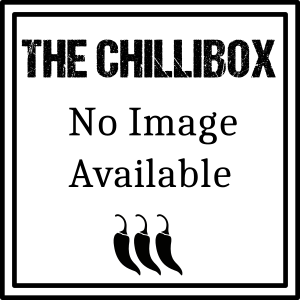
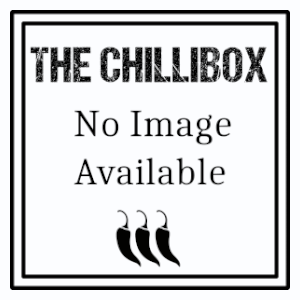
Add placeholder for images in case image missing
- Replace placeholder image in static/images
- Edit templates where product images used to add link to placeholder in case of no image
- Edit layout of newest products on index

diff --git a/products/templates/products/latest_products.html b/products/templates/products/latest_products.html
@@ -7,6 +7,7 @@ Shop
 
 {% block content %}
 <section class="container-md">
+    <!-- Latest sauces -->
     <div class="row py-4">
         <div class="d-flex align-items-center">
             <h2 class="headings">Latest Sauces</h2>
@@ -15,15 +16,21 @@ Shop
         {% for sauce in saucecat %}
         <div class="col-sm-6 col-md-6 col-lg-4 col-xl-3 mb-5 text-center">
             <div class="chilli-card mx-auto text-center">
-                <h3 class="headings headings-sm">{{ sauce.name }}</h3>
+                <h3 class="headings headings-sm">{{ sauce }}</h3>
                 {% if sauce.thumbnail %}
-                <img class="pics" src="{{ sauce.thumbnail.url }}">
+                <img class="pics" src="{{ sauce.thumbnail.url }}" alt="{{ sauce }}">
                 {% else %}
-                <p>No thumbnail</p>
+                <img width="300" height="300" class="pics" src="{% static 'images/placeholder.png' %}" alt="No image available for {{ sauce }}">
                 {% endif %}
                 <p class="excerpt">{{ sauce.excerpt }}</p>
-                <p>{% if sauce.check_stock %}In Stock{% else %}Out of Stock{% endif %}</p>
-                <a class="chilli-link" href="{% url 'products:product' sauce.slug %}">View {{ sauce.name }}</a>
+                <p>
+                    {% if sauce.check_stock %}
+                    In Stock
+                    {% else %}
+                    Out of Stock
+                    {% endif %}
+                </p>
+                <a class="chilli-link" href="{% url 'products:product' sauce.slug %}">View {{ sauce }}</a>
             </div>
         </div>
         {% empty %}
@@ -31,6 +38,7 @@ Shop
         {% endfor %}
     </div>
     <hr class="mt-5">
+    <!-- Latest sauceboxes -->
     <div class="row py-4">
         <div class="d-flex align-items-center">
             <h2 class="headings">Latest Sauceboxes</h2>
@@ -39,15 +47,21 @@ Shop
         {% for saucebox in sauceboxcat %}
         <div class="col-md-3 text-center">
             <div class="chilli-card mx-auto text-center">
-                <h3 class="headings headings-sm">{{ saucebox.name }}</h3>
+                <h3 class="headings headings-sm">{{ saucebox }}</h3>
                 {% if saucebox.thumbnail %}
                 <img class="pics" src="{{ saucebox.thumbnail.url }}">
                 {% else %}
-                <p>No thumbnail</p>
+                <img width="300" height="300" class="pics" src="{% static 'images/placeholder.png' %}" alt="No image available for {{ saucebox }}">
                 {% endif %}
                 <p class="excerpt">{{ saucebox.excerpt }}</p>
-                <p>{% if saucebox.check_stock %}In Stock{% else %}Out of Stock{% endif %}</p>
-                <a class="chilli-link" href="{% url 'products:product' saucebox.slug %}">View {{ saucebox.name }}</a>
+                <p>
+                    {% if saucebox.check_stock %}
+                    In Stock
+                    {% else %}
+                    Out of Stock
+                    {% endif %}
+                </p>
+                <a class="chilli-link" href="{% url 'products:product' saucebox.slug %}">View {{ saucebox }}</a>
             </div>
         </div>
         {% empty %}
@@ -55,6 +69,7 @@ Shop
         {% endfor %}
     </div>
     <hr class="mt-5">
+    <!-- Latest seeds -->
     <div class="row py-4">
         <div class="d-flex align-items-center">
             <h2 class="headings">Latest Seeds</h2>
@@ -63,15 +78,21 @@ Shop
         {% for seed in seedcat %}
         <div class="col-md-3 text-center">
             <div class="chilli-card mx-auto text-center">
-                <h3 class="headings headings-sm">{{ seed.name }}</h3>
+                <h3 class="headings headings-sm">{{ seed }}</h3>
                 {% if seed.thumbnail %}
                 <img class="pics" src="{{ seed.thumbnail.url }}">
                 {% else %}
-                <p>No thumbnail</p>
+                <img width="300" height="300" class="pics" src="{% static 'images/placeholder.png' %}" alt="No image available for {{ seed }}">
                 {% endif %}
                 <p class="excerpt">{{ seed.excerpt }}</p>
-                <p>{% if seed.check_stock %}In Stock{% else %}Out of Stock{% endif %}</p>
-                <a class="chilli-link" href="{% url 'products:product' seed.slug %}">View {{ seed.name }}</a>
+                <p>
+                    {% if seed.check_stock %}
+                    In Stock
+                    {% else %}
+                    Out of Stock
+                    {% endif %}
+                </p>
+                <a class="chilli-link" href="{% url 'products:product' seed.slug %}">View {{ seed }}</a>
             </div> 
         </div>
         {% empty %}
@@ -79,6 +100,7 @@ Shop
         {% endfor %}
     </div> 
     <hr class="mt-5">
+    <!-- Latest seedboxes -->
     <div class="row py-4">
         <div class="d-flex align-items-center">
             <h2 class="headings">Latest Seedboxes</h2>
@@ -87,15 +109,21 @@ Shop
         {% for seedbox in seedboxcat %}
         <div class="col-md-3 text-center">
             <div class="chilli-card mx-auto text-center">
-                <h3 class="headings headings-sm">{{ seedbox.name }}</h3>
+                <h3 class="headings headings-sm">{{ seedbox }}</h3>
                 {% if seedbox.thumbnail %}
                 <img class="pics" src="{{ seedbox.thumbnail.url }}">
                 {% else %}
-                <img width="160" height="160" class="pics" src="{% static 'images/placeholder.png' %}">
+                <img width="300" height="300" class="pics" src="{% static 'images/placeholder.png' %}" alt="No image available for {{ seedbox }}">
                 {% endif %}
                 <p class="excerpt">{{ seedbox.excerpt }}</p>
-                <p>{% if seedbox.check_stock %}In Stock{% else %}Out of Stock{% endif %}</p>
-                <a class="chilli-link" href="{% url 'products:product' seedbox.slug %}">View {{ seedbox.name }}</a>
+                <p>
+                    {% if seedbox.check_stock %}
+                    In Stock
+                    {% else %}
+                    Out of Stock
+                    {% endif %}
+                </p>
+                <a class="chilli-link" href="{% url 'products:product' seedbox.slug %}">View {{ seedbox }}</a>
             </div>
         </div>
         {% empty %}

diff --git a/products/templates/products/search_results.html b/products/templates/products/search_results.html
@@ -9,13 +9,6 @@ Search Results
 
 <section class="container-md">
     <div class="col-12">
-        <div class="d-flex justify-content-between">
-            <a class="chilli-link bigger" href="{% url 'products:latest' %}"><i class="fa-solid fa-angles-left"></i> View
-                latest products</a>
-            {% if user.is_superuser %}
-            <a class="chilli-link" href="{% url 'management:dashboard' %}">Go to Product Dashboard</a>
-            {% endif %}
-        </div>
         <div class="row">
             <h1 class="headings headings-sm">
                 {% if product_list|length > 0 %}
@@ -30,14 +23,14 @@ Search Results
                 <div class="col-sm-6 col-md-6 col-lg-4 col-xl-3 text-center">
                     <div class="h-100 border-0 chilli-card text-center mx-auto">
                         <div>
-                            <h2 class="headings headings-sm">{{ product.name }}</h2>
+                            <h2 class="headings headings-sm">{{ product }}</h2>
                         </div>
                         
                         <div class="my-3">
                             {% if product.thumbnail %}
-                                <img class="pics" src="{{ product.thumbnail.url }}">
+                                <img class="pics" src="{{ product.thumbnail.url }}" alt="{{ product }}">
                             {% else %}
-                                <img width="160" height="160" class="pics" src="{% static 'images/placeholder.png' %}">
+                            <img width="300" height="300" class="pics" src="{% static 'images/placeholder.png' %}" alt="No image available for {{ product }}">
                             {% endif %}
                         </div>
                         
@@ -54,8 +47,7 @@ Search Results
                                     {% else %}
                                         <p>Out of stock.</p>
                                     {% endif %}
-                                    <a class="chilli-link" href="{% url 'products:product' product.slug %}">View
-                                        {{ product.name }}</a>
+                                    <a class="chilli-link" href="{% url 'products:product' product.slug %}">View {{ product }}</a>
                                 </div>
                             </div>
                         </div>
@@ -63,8 +55,7 @@ Search Results
                     {% if user.is_superuser %}
                     <div class="my-3">
                         <a class="chilli-btn" href="{% url 'management:edit_product' product.pk %}">Edit Product</a>
-                        <a class="chilli-btn chilli-dngr" href="{% url 'management:delete_product' product.pk %}">Delete
-                            Product</a>
+                        <a class="chilli-btn chilli-dngr" href="{% url 'management:delete_product' product.pk %}">Delete Product</a>
                     </div>
                     {% endif %}
                 </div>

diff --git a/products/templates/products/product_detail.html b/products/templates/products/product_detail.html
@@ -3,36 +3,24 @@
 {% load crispy_forms_tags %}
 
 {% block title %}
-{{ product.name }}
+{{ product }}
 {% endblock %}
 
 {% block content %}
 <section class="container-fluid">
-    <div class="mt-4">
-        <!-- Link to return to products (and product dashboard for admin)-->
-        <a class="chilli-link big" href="{% url 'products:latest' %}">&laquo; To Latest
-            Products</a><br>
-        <a class="chilli-link big" href="{% url 'products:category' product.category.slug %}">&laquo; To {{ product.category }}</a>
-        <!-- Link for staff to management dashboard-->
-        {% if user.is_staff %}
-        <a class="chilli-link float-end" href="{% url 'management:dashboard' %}">Go To Dashboard &raquo;</a>
-        {% endif %}
-    </div>
     <div class="row m-4">
         <!-- Product image and description -->
         <div class="col-lg-6 text-center">
             <div>
-                <h1 class="headings">{{ product.name }}</h1>
+                <h1 class="headings">{{ product }}</h1>
             </div>
-            
             <div>
                 {% if product.image %}
-                    <img class="pics pics-lg" src="{{ product.image.url }}">
+                    <img class="pics pics-lg" src="{{ product.image.url }}" alt="{{ product }}">
                 {% else %}
-                    <img class="pics pics-lg" src="{% static 'images/placeholder.png' %}">
+                    <img width="300" height="300" class="pics pics-lg" src="{% static 'images/placeholder.png' %}" alt="No image available for {{ product }}">
                 {% endif %}
             </div>
-            
             <p class="m-5 text-start">{{ product.description }}</p>
             {% if user.is_staff %}
                 <!-- Edit and Delete for admin -->
@@ -43,7 +31,7 @@
         <div class="col-lg-6 d-flex flex-column">
             <!-- Table for product details -->
             <div class="order-2 order-lg-1">
-                <h2 class="headings headings-sm">{{ product.name }} Details:</h2>
+                <h2 class="headings headings-sm">{{ product }} Details:</h2>
                 <table class="table table-borderless">
                     <tr>
                         <th>Category: </th>

diff --git a/home/templates/home/index.html b/home/templates/home/index.html
@@ -48,8 +48,8 @@ Home
     <!-- This row has header and blurb-->
     <div class="row">
         <h1 class="headings">Welcome to The Chillibox!</h1>
-        <p>At The Chillibox love all things <strong>spicy</strong>!</p>
-        <p>We offer a selection of seeds of different heat levels to grow your own chilli pepper plants. And a variety of hot sauces made in-house from our own plants grown here in Ireland.</p>
+        <p>At The Chillibox we love all things <strong>spicy</strong>!</p>
+        <p>We offer a selection of seeds of different heat levels to grow your own <strong>chilli pepper plants</strong>. And a variety of <strong>hot sauces</strong> made in-house from our own plants grown here in Ireland.</p>
     </div>
     <hr>
     <!-- This row is more specific -->
@@ -83,20 +83,19 @@ Home
         <!-- Latest products?? OR should this go at top? -->
         <!-- Should style with cards similar to product layout OR just links?? Prob best to include thumbnails tho-->
         {% for product in latest_products %}
-        <div class="col-3">
+        <div class="col-md-6 col-lg-3 mx-auto">
                 <div class="chilli-card text-center">
-                <h4>{{ product.name }}</h4>
+                <h4>{{ product }}</h4>
                 {% if product.thumbnail %}
-                    <img class="pics" src="{{ product.thumbnail.url }}">
+                    <img class="pics" src="{{ product.thumbnail.url }}" alt="{{ product }}">
                 {% else %}
-                    <img width="160" height="160" class="pics" src="{% static 'images/placeholder.png' %}">
+                    <img width="300" height="300" class="pics" src="{% static 'images/placeholder.png' %}" alt="No image available for {{ product }}">
                 {% endif %}
                 <p class="excerpt">{{ product.excerpt }}</p>
-                <a class="chilli-link" href="{% url 'products:product' product.slug %}">View {{ product.name }}</a>
+                <a class="chilli-link" href="{% url 'products:product' product.slug %}">View {{ product }}</a>
             </div>
         </div>
         {% endfor %}
-    
     </div>
 </section>
 

diff --git a/products/templates/products/category.html b/products/templates/products/category.html
@@ -31,14 +31,14 @@
         <div class="col-sm-6 col-md-6 col-lg-4 col-xl-3 text-center">
             <div class="h-100 border-0 chilli-card text-center mx-auto">
                 <div>
-                    <h2 class="headings headings-sm">{{ product.name }}</h2>
+                    <h2 class="headings headings-sm">{{ product }}</h2>
                 </div>
                 
                 <div class="my-3">
                     {% if product.thumbnail %}
-                        <img class="pics" src="{{ product.thumbnail.url }}">
+                        <img class="pics" src="{{ product.thumbnail.url }}" alt="{{ product }}">
                     {% else %}
-                        <img width="160" height="160" class="pics" src="{% static 'images/placeholder.png' %}">
+                    <img width="300" height="300" class="pics" src="{% static 'images/placeholder.png' %}" alt="No image available for {{ product }}">
                     {% endif %}
                 </div>
                 
@@ -47,8 +47,6 @@
                         <div class="col">
                             {% if product.excerpt %}
                             <p class="excerpt">{{ product.excerpt }}</p>
-                            {% else %}
-                            <p class="excerpt">Currently no info.</p>
                             {% endif %}
                             {% if product.check_stock %}
                             <p>In stock.</p>
@@ -56,7 +54,7 @@
                             <p>Out of stock.</p>
                             {% endif %}
                             <a class="chilli-link" href="{% url 'products:product' product.slug %}">View
-                                {{ product.name }}</a>
+                                {{ product }}</a>
                         </div>
                     </div>
                 </div>

diff --git a/cart/templates/cart/cart.html b/cart/templates/cart/cart.html
@@ -49,15 +49,16 @@ Your Cart
                 <div class="row border mx-1">
                     <div class="col-6 text-center my-auto">
                         {% if item.product.thumbnail %}
-                        <img class="pics" src="{{ item.product.thumbnail.url }}">
+                        <img class="pics" src="{{ item.product.thumbnail.url }}" alt="{{ item.product }}">
                         {% else %}
-                        <p>No image available</p>
+                        <img width="300" height="300" class="pics" src="{% static 'images/placeholder.png' %}" alt="No image available for {{ item.product }}">
                         {% endif %}
                     </div>
                     <div class="col-6 text-center">
                         <h2 class="headings headings-sm">{{ item.product }}</h2>
                         <p><strong>Size: </strong> {{ item.size }}</p>
                         <p><strong>Qty: </strong> {{ item.quantity }}</p>
+                        <!-- Adjust quantity of item in cart-->
                         <form class="mb-2" action="{% url 'cart:adjust_cart' item.item_id %}" method="POST">
                             <input class="stock" data-item_id="{{ item.item_id }}" name="stock_{{ item.item_id }}" value="{{ item.variant.current_stock }}" hidden>
                             <button type="button" id="dec_{{ item.item_id }}" class="chilli-btn rounded-0 decrease">-</button>

diff --git a/checkout/templates/checkout/checkout.html b/checkout/templates/checkout/checkout.html
@@ -26,7 +26,13 @@ Checkout
                 <tbody>
                     {% for item in cart_items %}
                     <tr>
-                        <td>{% if item.product.image %}<img class="cart-pics" src="{{ item.product.thumbnail.url }}" alt="{{ product.name }}">{% else %}Image unavailable{% endif %}</td>
+                        <td>
+                            {% if item.product.image %}
+                            <img class="cart-pics" src="{{ item.product.thumbnail.url }}" alt="{{ product }}">
+                            {% else %}
+                            <img width="300" height="300" class="cart-pics" src="{% static 'images/placeholder.png' %}" alt="No image available for {{ product }}">
+                            {% endif %}
+                        </td>
                         <td>{{ item.product.name }}</td>
                         <td>{{ item.quantity }}</td>
                         <td>€{{ item.variant.price }}</td>

diff --git a/cart/templates/cart/cart_canvas.html b/cart/templates/cart/cart_canvas.html
@@ -13,15 +13,15 @@
     {% endif %}
 </div>
 <div class="col-12">
-    {% for item in cart_items %}
     <!-- Warning for users that cart does expire -->
-    <p>The items in your cart will be held for two hours.</p>
+    <p>The items in your cart are held for two hours.</p>
+    {% for item in cart_items %}
         <div class="cart-card text-center mx-auto row">
             <div class="col-6">
                 {% if item.product.thumbnail %}
-                <img class="cart-pics" src="{{ item.product.thumbnail.url }}">
+                <img class="cart-pics" src="{{ item.product.thumbnail.url }}" alt="{{ item.product }}">
                 {% else %}
-                <p>No image available</p>
+                <img width="300" height="300" class="pics" src="{% static 'images/placeholder.png' %}" alt="No image available for {{ item.product }}">
                 {% endif %}
             </div>
             <div class="col-6">
